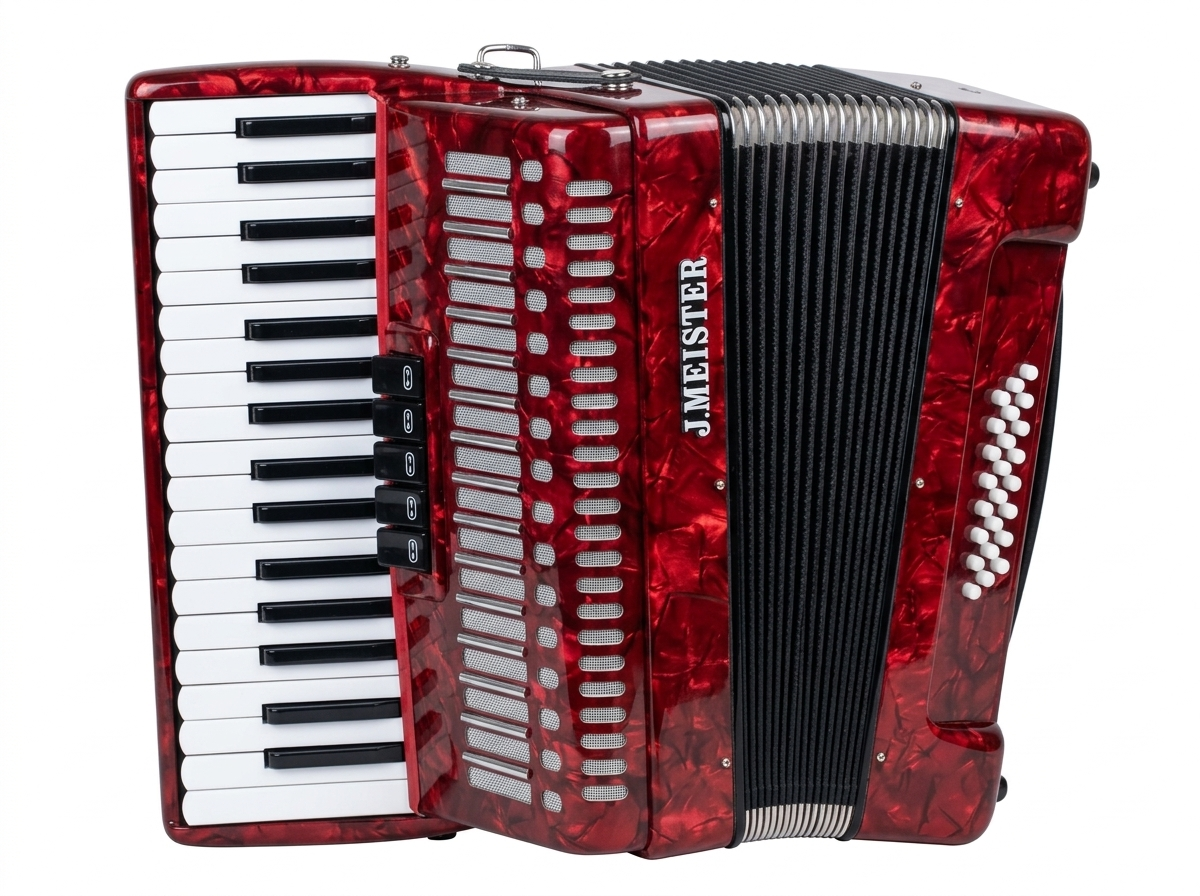
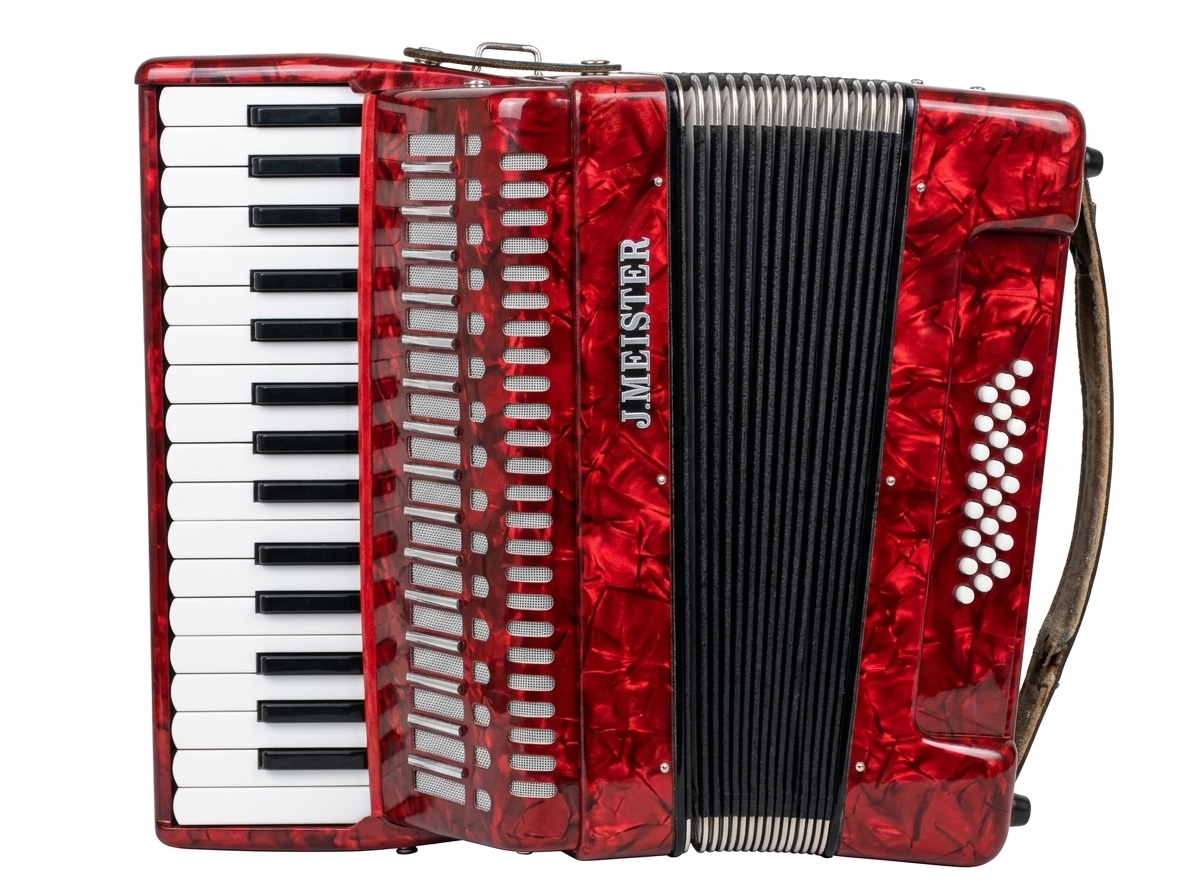
fix(web): actualizar fotos Yorkville y Acordeon, corregir badge EN PISO LEON y titular vitrina

diff --git a/datos-reales.js b/datos-reales.js
@@ -28,7 +28,7 @@
     document.addEventListener("DOMContentLoaded", function () {
         if (!document.querySelector('link[href*="impacto.css"]')) {
             var sheet = document.createElement("link");
-            sheet.rel = "stylesheet"; sheet.href = "impacto.css?v=2.4";
+            sheet.rel = "stylesheet"; sheet.href = "impacto.css?v=2.5";
             document.head.appendChild(sheet);
         }
         var kicker = document.querySelector(".sw-hero-kicker");
@@ -52,7 +52,7 @@
             var props = document.querySelector(".sw-props-strip");
             if (props) {
                 var wrap = document.createElement("section"); wrap.className = "sw-vitrina";
-                wrap.innerHTML = '<div class="sw-vitrina-label">Pasillo · desliza como si estuvieras en León</div>';
+                wrap.innerHTML = '<div class="sw-vitrina-label">Instrumentos en exhibición · Sucursal León</div>';
                 var track = document.createElement("div"); track.className = "sw-vitrina-track";
                 PRODUCTOS.filter(function (p) { return p.imagen || p.foto; }).forEach(function (p) {
                     var a = document.createElement("a"); a.className = "sw-vitrina-item"; a.href = "#catalogo";

diff --git a/impacto.css b/impacto.css
@@ -8,7 +8,7 @@
 .sw-vitrina-item strong{display:block;margin-top:10px;font-family:Fraunces,Georgia,serif;font-weight:600;font-size:16px}
 .sw-vitrina-item span{font-size:12px;color:#c45c26}
 .sw-product-media{position:relative}
-.sw-product-media::after{content:"EN PISO · LEÓN";position:absolute;left:10px;bottom:10px;font-size:9px;letter-spacing:.16em;color:rgba(28,22,18,.45)}
+.sw-product-media::after{content:"EN PISO · LEÓN";position:absolute;left:10px;bottom:10px;z-index:4;font-size:9.5px;font-weight:700;letter-spacing:.12em;text-transform:uppercase;color:#123F38;background:rgba(255,255,255,.94);padding:3px 8px;border-radius:4px;border:1px solid rgba(18,63,56,.18);box-shadow:0 1px 4px rgba(0,0,0,.08);line-height:1.3;white-space:nowrap;pointer-events:none}
 @media (min-width:900px){
 .sw-products .sw-product:first-child{grid-column:span 2;display:grid;grid-template-columns:1.1fr 1fr}
 .sw-products .sw-product:first-child .sw-product-media{height:100%;min-height:340px}

diff --git a/index.html b/index.html
@@ -824,7 +824,7 @@
         </svg>
 
         <script src="app.js?v=2.1"></script>
-        <script src="catalog-lote.js?v=4.0"></script>
-        <script src="datos-reales.js?v=2.5"></script>
+        <script src="catalog-lote.js?v=4.1"></script>
+        <script src="datos-reales.js?v=2.6"></script>
     </body>
 </html>
